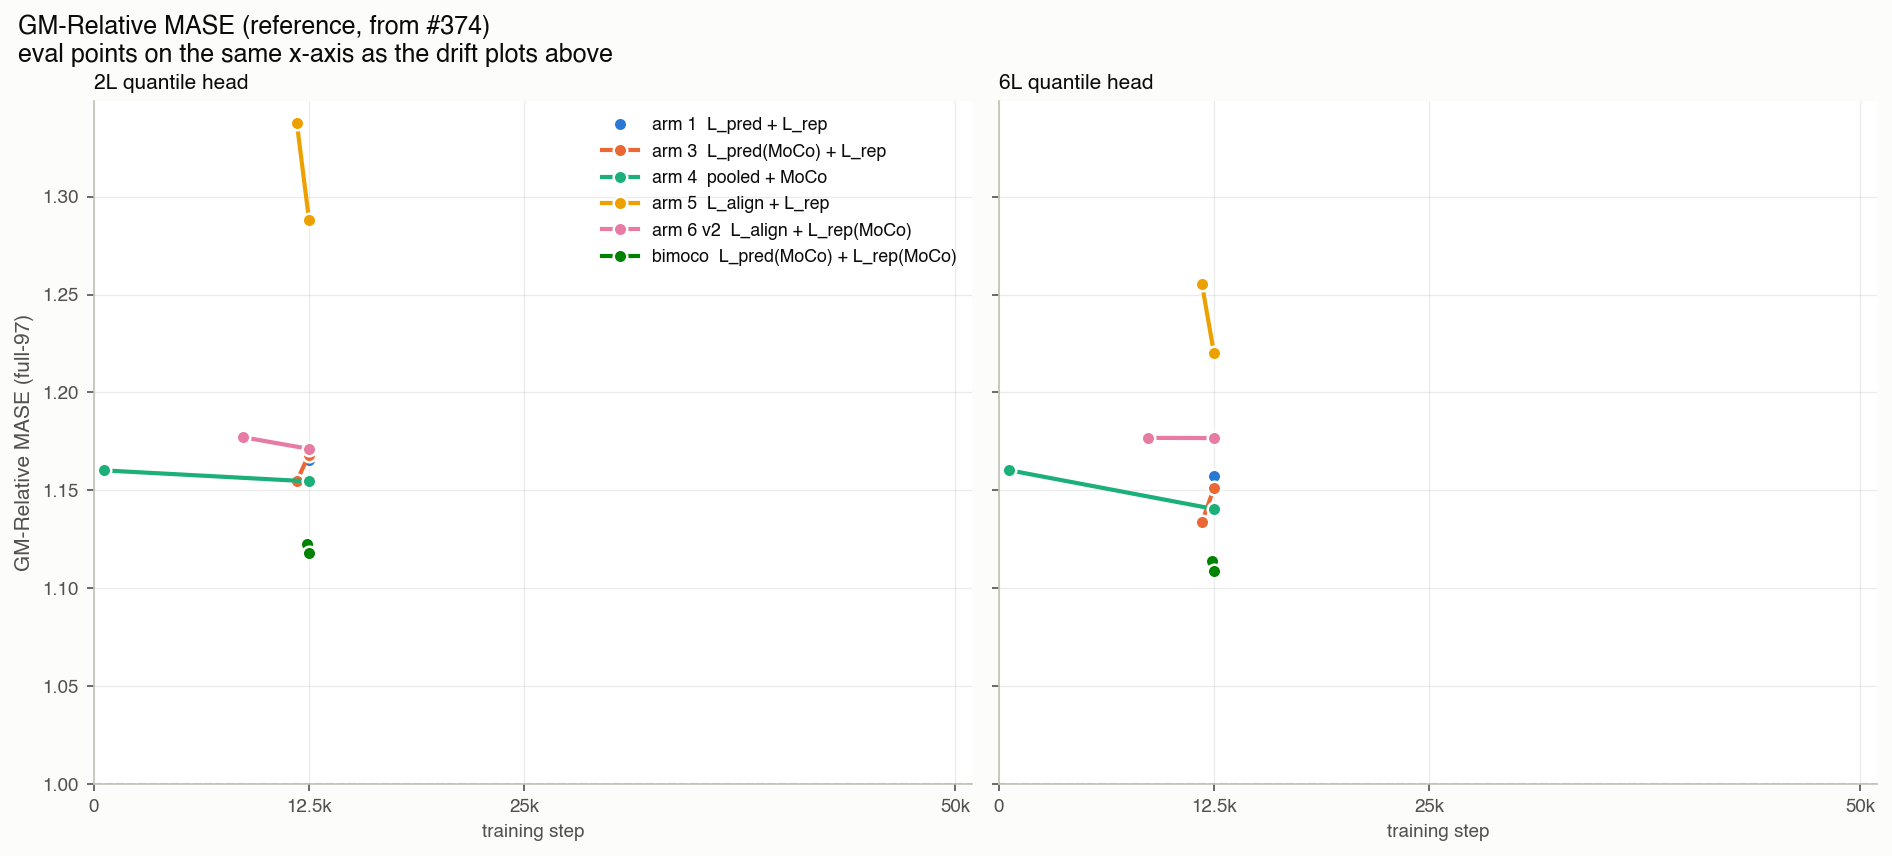
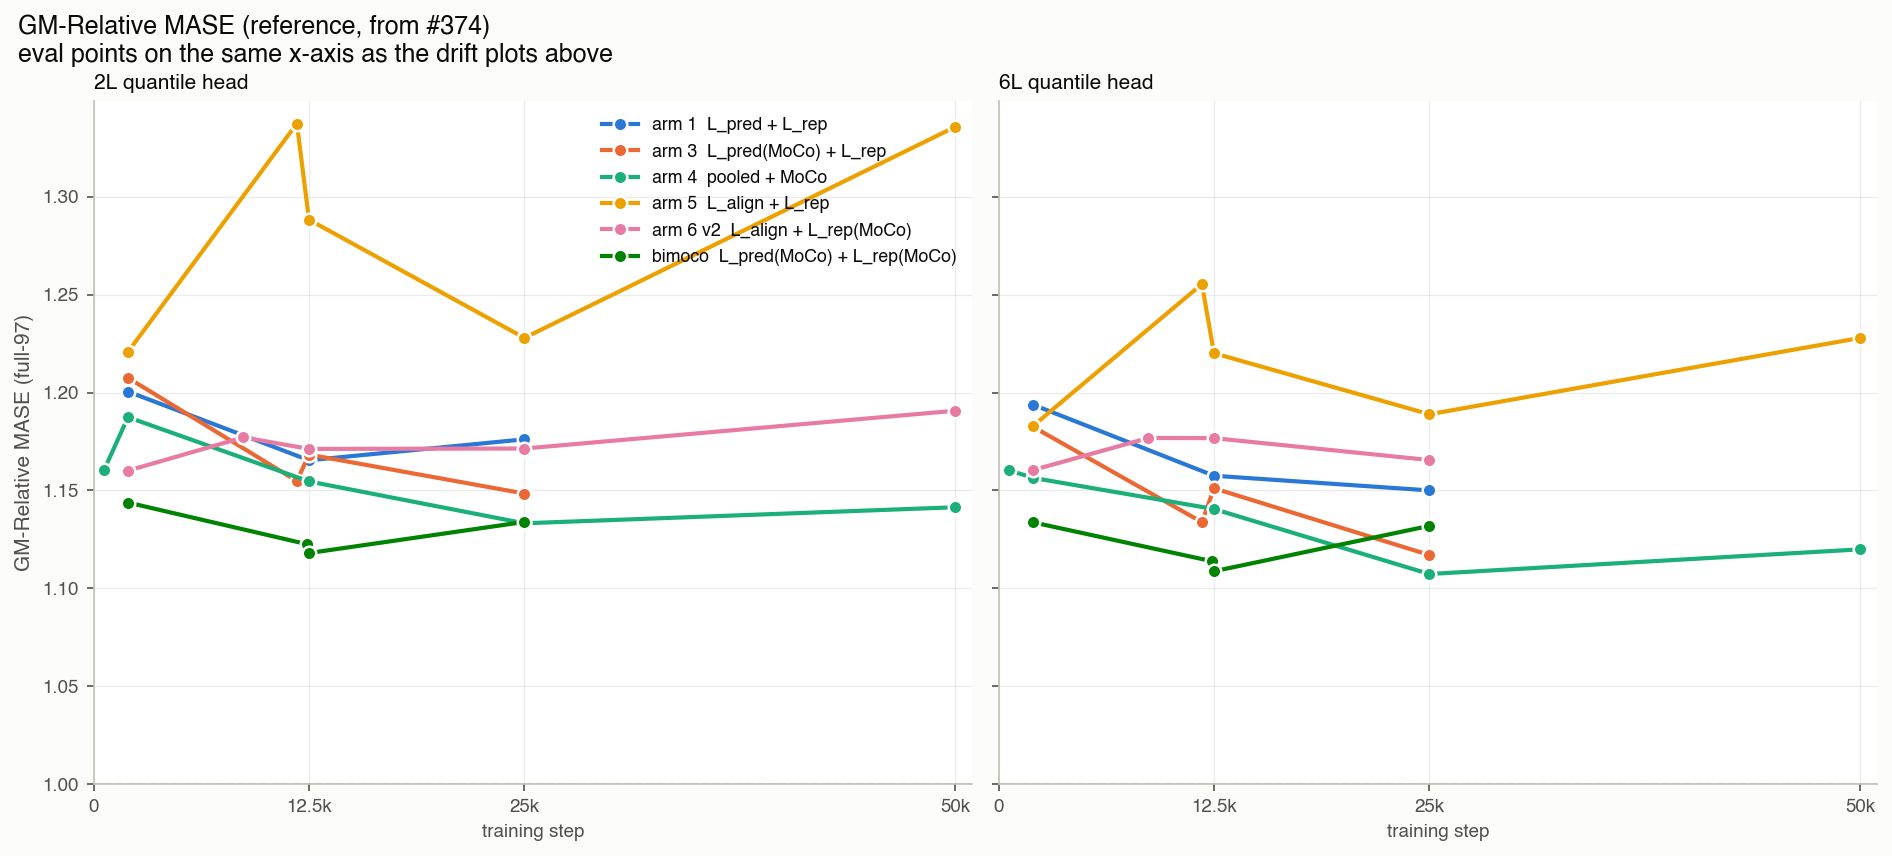
plots(#374): GM-MASE — pull 2k/25k/50k evals from elisa
The eval summaries at _2k, _25k, and _50k suffixes exist on elisa's
cf-374 worktree but were never committed to the branch (the git tree
has only best-step + _last). Previous extraction missed them → GM
plot showed only step ≤ 12500. Re-extract via `ssh jupyter@elisa
cat …/summary.txt` and refresh the CSV.

results/gm_mase_374.csv now has 51 rows (was 22). Coverage:
  arm1:   2k / 12.5k / 25k                 (2L + 6L)
  arm3:   2k / best 11800 / 12.5k / 25k    (2L + 6L)
  arm4:   best 600 / 2k / 12.5k / 25k / 50k (2L + 6L)
  arm5:   2k / best 11800 / 12.5k / 25k / 50k (2L + 6L)
  arm6v2: 2k / best 8700 / 12.5k / 25k    (2L) + 50k only 2L
  bimoco: 2k / best 12400 / 12.5k / 25k    (2L + 6L)

Report caption updated to note arm 5's best-loss-step spike.

Claude-Session: https://claude.ai/code/session_017q9rfvRYVqjfCbNQDzpixC

diff --git a/experiments/2026-07-22_latent-drift/latent_drift.md b/experiments/2026-07-22_latent-drift/latent_drift.md
@@ -45,8 +45,9 @@ comparable collapse.
 
 ![gm_mase_374](plots/gm_mase_374.png)
 
-Arm 5 has the highest MASE at every recorded eval step; the other
-five arms cluster tightly.
+Arm 5 stays highest MASE across the whole trajectory and its
+best-loss step spikes higher than its endpoints; the other five arms
+cluster in a narrow band.
 
 ## Metric derivation
 
